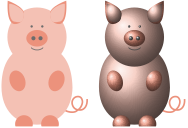
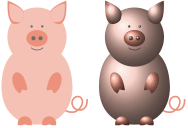
changed arms and legs of the tikzpig -- fixes #3 -- big thanks to @circumscribe and @CarLaTeX for your suggestions!

diff --git a/Examples/pig.tex b/Examples/pig.tex
@@ -8,50 +8,8 @@
 \pig
 \end{tikzpicture}	
 
-%\begin{tikzpicture}
-%\pig[body=blue]
-%\end{tikzpicture}	
-%
-%\begin{tikzpicture}
-%\pig[blush]
-%\end{tikzpicture}
-%	
-%\begin{tikzpicture}
-%\pig[whiskers]
-%\end{tikzpicture}	
-%
-%\begin{tikzpicture}
-%\pig[teeth=white]
-%\end{tikzpicture}	
-%
-%\begin{tikzpicture}
-%\pig[shadow]
-%\end{tikzpicture}	
-%
-%\begin{tikzpicture}
-%\pig[askphil]
-%\end{tikzpicture}	
-%
-%\begin{tikzpicture}
-%\pig[leftstep]
-%\end{tikzpicture}	
-%
-%\begin{tikzpicture}
-%\pig[rightstep]
-%\end{tikzpicture}	
-
 \begin{tikzpicture}
 \pig[3D]
 \end{tikzpicture}	
-%
-%\begin{tikzpicture}[scale=0.5]
-%\pig
-%\end{tikzpicture}	
-
-%\begin{tikzpicture}
-%\pig[
-%	crystalball
-%]
-%\end{tikzpicture}
 	
 \end{document}

diff --git a/tikzlings-doc.tex b/tikzlings-doc.tex
@@ -174,7 +174,7 @@
 \subtitle{drawing animals and beings in \TikZ}
 \author{%
 	\texorpdfstring{\texttt{samcarter}\\[0.8em]
-		\url{https://github.com/samcarter/tikzlings}
+		\url{https://github.com/samcarter/tikzlings}\\
 		\url{https://www.ctan.org/pkg/tikzlings}
 	}{samcarter}}
 \date{Version 0.1 -- \today}
